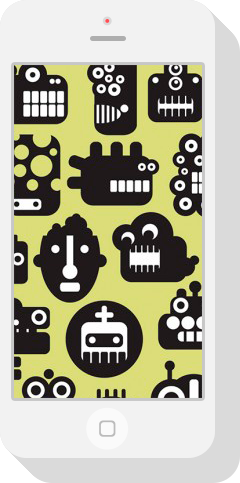
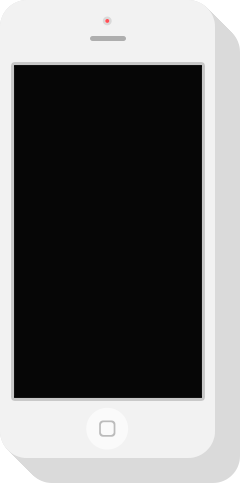
feat: get values from form and call function when phone is clicked

diff --git a/index.html b/index.html
@@ -7,26 +7,32 @@
     <link rel="stylesheet" href="fonts.css">
   </head>
   <body>
-    <header class="header">
+    <header class="header section" id="section-home">
       <h1 class="header__heading">Singolo<span>*</span></h1>
       <nav class="header-navigation">
         <ul class="header-navigation__list">
-          <li class="header-navigation__element"><a href="#" class="header-navigation__element--link" id="home">Home</a></li>
-          <li class="header-navigation__element"><a href="#" class="header-navigation__element--link" id="services">Services</a></li>
-          <li class="header-navigation__element"><a href="#" class="header-navigation__element--link" id="portfolio">Portfolio</a></li>
-          <li class="header-navigation__element"><a href="#" class="header-navigation__element--link">About</a></li>
-          <li class="header-navigation__element"><a href="#" class="header-navigation__element--link">Contact</a></li>
+          <li class="header-navigation__element"><a class="header-navigation__element--link" class="header-navigation__element--active" id="home" href="#section-home">Home</a></li>
+          <li class="header-navigation__element"><a class="header-navigation__element--link" id="services" href="#section-services">Services</a></li>
+          <li class="header-navigation__element"><a class="header-navigation__element--link" id="portfolio" href="#section-portfolio">Portfolio</a></li>
+          <li class="header-navigation__element"><a class="header-navigation__element--link" href="#section-about">About</a></li>
+          <li class="header-navigation__element"><a class="header-navigation__element--link" href="#section-contact">Contact</a></li>
         </ul>
       </nav>
     </header>
     <main>
       <section class="section-slider">
         <img class="section-slider__arrow--left" src="assets/arrow-left.png" alt="Icon of left arrow">
-        <img class="section-slider__vertical-phone" src="assets/verticalPhone.png" alt="Vertical Phone">
-        <img class="section-slider__horizontal-phone" src="assets/horizontalPhone.png" alt="Horizontal Phone">
+        <div class="section-slider__vertical-phone">
+          <img id="section-slider__vertical-phone--housing" src="assets/verticalPhone.png" alt="Vertical Phone Housing">
+          <img id="section-slider__vertical-phone--screen" src="assets/verticalPhoneScreen.png" alt="Vertical Phone Screen">
+        </div>
+        <div class="section-slider__horizontal-phone">
+          <img id="section-slider__horizontal-phone--housing" src="assets/horizontalPhone.png" alt="Horizontal Phone Housing">
+          <img id="section-slider__horizontal-phone--screen" src="assets/horizontalPhoneScreen.png" alt="Horizontal Phone Screen">
+        </div>
         <img class="section-slider__arrow--right" src="assets/arrow-right.png" alt="Icon of right arrow">
       </section>
-      <section class="section-our-services">
+      <section class="section-our-services section" id="section-services">
         <h2 class="section-our-services__heading">Our Services</h2>
         <p class="section-our-services__paragraph">Fusce dapibus, tellus ac cursus commodo, tortor mauris condimentum. Duis mollis, non commodo luctus, nisi erat porttitor ligula, eget lacinia odio sem nec elit. Fusce dapibus, tellus ac cursus commodo, tortor mauris condimentum nibh.</p>
         <div class="section-our-services__content">
@@ -107,7 +113,7 @@
           </div>
         </div>
       </section>
-      <section class="section-portfolio">
+      <section class="section-portfolio section" id="section-portfolio">
         <h2 class="section-portfolio__heading">Portfolio</h2>
         <p class="section-portfolio__paragraph">
           Duis mollis, est non commodo luctus, nisi erat porttitor ligula, eget lacinia odio sem nec elit.
@@ -141,7 +147,7 @@
           </div>
         </div>
       </section>
-      <section class="section-about-us">
+      <section class="section-about-us section" id="section-about">
         <h2 class="section-about-us__heading">
           About Us
         </h2>
@@ -196,7 +202,7 @@
           </div>
         </div>
       </section>
-      <section class="section-contact">
+      <section class="section-contact section" id="section-contact">
         <h2 class="section-contact__heading-secondary">
           Get a Quote
         </h2>
@@ -206,11 +212,11 @@
         <div class="section-contact__content">
           <div class="section-contact__form">
             <form class="section-contact__form-content" action="index.html" method="post">
-              <input type="text" name="" value="" required class="section-contact__form--input" placeholder="Name (Required)">
-              <input type="email" name="" value="" required class="section-contact__form--input" placeholder="Email (Required)">
-              <input type="text" name="" value="" class="section-contact__form--input" placeholder="Subject">
-              <input type="text" name="" value="" class="section-contact__form--input" placeholder="Describe your project in detail...">
-              <button type="submit" name="button" class="section-contact__form-content--button">Submit</button>
+              <input type="text" value="" required class="section-contact__form--input" placeholder="Name (Required)">
+              <input type="email" value="" required class="section-contact__form--input" placeholder="Email (Required)">
+              <input type="text" value="" class="section-contact__form--input" id="section-contact__form--input-subject" placeholder="Subject">
+              <input type="text" value="" class="section-contact__form--input" id="section-contact__form--input-description" placeholder="Describe your project in detail...">
+              <button type="submit" name="button" class="section-contact__form-content--button" id="section-contact__button">Submit</button>
             </form>
           </div>
           <div class="section-contact__aside">
@@ -245,5 +251,11 @@
         </div>
       </footer>
     </main>
+    <script type="text/javascript" src="script.js">
+
+    </script>
+    <div class="section-contact-popup">
+      
+    </div>
   </body>
 </html>

diff --git a/script.js b/script.js
@@ -1,0 +1,61 @@
+/*Header*/
+document.addEventListener('scroll', onScroll);
+
+function onScroll(event) {
+  const curPos = window.scrollY;
+  const divs = document.querySelectorAll('.section');
+  const links = document.querySelectorAll('.header-navigation__list > li > a');
+  divs.forEach((el) => {
+    if (el.offsetTop <= curPos && (el.offsetTop + el.offSetHeight) > curPos) {
+      links.forEach((a) => {
+        a.classList.remove('header-navigation__element--active');
+        if (el.getAttribute('id') === a.getAttribute('href').substring(1)) {
+          a.classList.add('header-navigation__element--active');
+        }
+      });
+
+    }
+  });
+}
+/*Slider activation of phones*/
+document.getElementById('section-slider__vertical-phone--housing').addEventListener('click', phoneSwitching);
+//document.getElementById('section-slider__horizontal-phone').addEventListener('click', phoneSwitching2);
+let phoneCondition = 1;
+function phoneSwitching () {
+  if (phoneCondition) {
+    phoneCondition = 0;
+    console.log(phoneCondition);
+  } else {
+    phoneCondition = 1;
+    console.log(phoneCondition);
+  }
+}
+
+//1. Make parts of the phone stand above each other
+//2. Write classes for hiding screen
+//3. MAke js for adding and removing classes
+//4. Think if you could do it in one function
+
+
+/*Get a quote*/
+//1. Call function on cliking on the button
+document.getElementById('section-contact__button').addEventListener('click', popupWithFormData);
+function popupWithFormData () {
+  //2. Get values of Subject and Description inputs
+  let subjectValue = document.getElementById('section-contact__form--input-subject').value;
+  let descriptionValue = document.getElementById('section-contact__form--input-description').value;
+  let subjectValuePopup = 'No subject';
+  let descriptionValuePopup = 'No description';
+  //3. Check if they have been filled
+  if (subjectValue !== '') {
+    subjectValuePopup = `Subject: ${subjectValue}`;
+  }
+  if (descriptionValue !== '') {
+    descriptionValuePopup = `Subject: ${descriptionValue}`;
+  }
+  console.log(subjectValuePopup, descriptionValuePopup);
+  //4. Make popup
+  //5. Make popup appear and hide
+  //6. Show data in the popup
+  //7. On clicling on button OK close the popup and reset inputs of form
+}

diff --git a/style.css b/style.css
@@ -1,5 +1,6 @@
 html {
   font-size: 10px;
+  scroll-behavior: smooth;
 }
 body {
   font-size: 1.6rem;
@@ -16,6 +17,8 @@ body {
   background-color: #2d303a;
   border-bottom: 6px solid #323746;
   color: #ffffff;
+  position: fixed;
+  width: 100%;
 }
 .header__heading {
   text-transform: uppercase;
@@ -39,6 +42,9 @@ body {
   margin-left: 2.8rem;
   color: #666d89;
 }
+.header-navigation__element--active {
+  color: #f06c64;
+}
 .header-navigation__element:first-child {
   list-style: none;
 }
@@ -58,7 +64,6 @@ body {
   text-decoration: underline;
 }
 #home {
-  color: #f06c64;
   margin-right: 0.1rem;
 }
 #services {
@@ -92,6 +97,13 @@ body {
 .section-slider__vertical-phone {
   margin-top: -0.5rem;
   margin-right: 1.7rem;
+  position: relative;
+}
+#section-slider__vertical-phone--housing {
+  position: absolute;
+}
+#section-slider__vertical-phone--screen {
+  position: absolute;
 }
 .section-slider__horizontal-phone {
   margin-top: -0.6rem;
